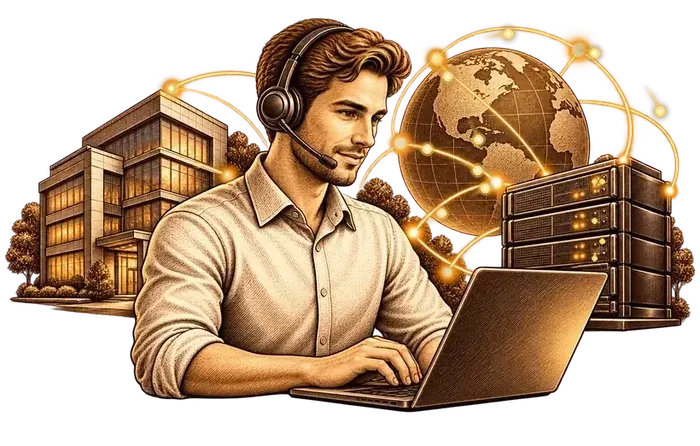
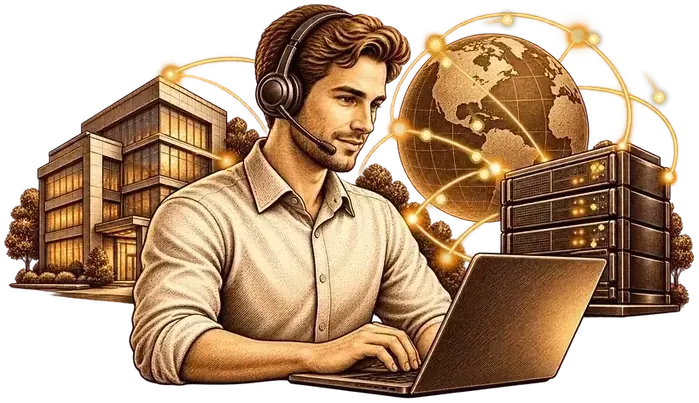
fix: apply hero image bbox-crop rule across /uslugi hero animations
Crop the 3 animated hero WebPs (serwis-laptopow, outsourcing-it,
serwis-drukarek-3d) to their real alpha bounding box to match the
already-tight statics, and cap the shared hero wrap at 80% zone height
so every service page's hero object sits at a consistent visual scale.
Frame count/delay/loop/alpha verified unchanged after crop.

diff --git a/src/components/service-page-template.tsx b/src/components/service-page-template.tsx
@@ -181,7 +181,7 @@ export function ServicePageTemplate({
               <div className="container max-w-4xl mx-auto px-4 md:px-6 relative z-10 pt-1 md:pt-2 mb-1">
                 <div className="grid grid-cols-1 md:grid-cols-2 gap-4 md:gap-10">
                   <div className="flex justify-center items-center">
-                    <div className="service-hero-image-wrap relative w-full md:w-full md:h-full">
+                    <div className="service-hero-image-wrap relative w-full md:w-full md:h-[80%]">
                       {slug === 'druk-3d-na-zamowienie' ? (
                         // Self-animated SVG (SMIL/CSS baked in) — plain <img>, not
                         // next/image, so the optimizer doesn't rasterize it and kill
@@ -199,15 +199,15 @@ export function ServicePageTemplate({
                         // Animated WebP (screen animation baked into the file) — plain
                         // <img>, not next/image, so the optimizer doesn't rasterize it
                         // and kill the animation. width/height match the source's real
-                        // 760x507 aspect ratio (not the generic 420x420 square used by
-                        // other service pages) so h-auto doesn't cause a layout jump
-                        // once the image loads.
+                        // 578x502 aspect ratio (cropped to alpha bbox; not the generic
+                        // 420x420 square used by other service pages) so h-auto doesn't
+                        // cause a layout jump once the image loads.
                         // eslint-disable-next-line @next/next/no-img-element
                         <img
                           src={imageSrc}
                           alt={imageAlt}
-                          width={760}
-                          height={507}
+                          width={578}
+                          height={502}
                           className="service-hero-image service-hero-image-laptop object-contain w-full h-auto md:w-full md:h-full mx-auto block"
                           fetchPriority="high"
                         />
@@ -238,8 +238,8 @@ export function ServicePageTemplate({
                           animatedSrc={imageSrc}
                           staticSrc="/images/03_outsourcing-it-static.webp"
                           alt={imageAlt}
-                          width={700}
-                          height={446}
+                          width={699}
+                          height={403}
                           className="service-hero-image object-contain w-full h-auto md:w-full md:h-full"
                         />
                       ) : slug === 'serwis-drukarek-3d' ? (
@@ -251,8 +251,8 @@ export function ServicePageTemplate({
                         <img
                           src={imageSrc}
                           alt={imageAlt}
-                          width={512}
-                          height={512}
+                          width={492}
+                          height={497}
                           className="service-hero-image object-contain w-full h-auto md:w-full md:h-full"
                           fetchPriority="high"
                         />

diff --git a/.claude/rules/design-guardrails.md b/.claude/rules/design-guardrails.md
@@ -25,3 +25,14 @@ If the user asks "how would this look" / "what do you suggest" / "show me option
 If a change would affect a shared component used by other pages, say which pages before changing it.
 
 After replacing a static asset under the same filename (icon, image), always hard-reload / bypass cache and confirm the browser is actually rendering the new file (byte size, `Last-Modified`, or a visible detail) before concluding it's stale and reprocessing the asset again.
+
+Service-page hero images/animations (the hero slot in `src/components/service-page-template.tsx`, files under `public/images/`):
+* Before inserting, reduce file weight as much as possible without visible quality loss.
+* Crop PNG/WebP to the real alpha bounding box — remove excess transparent padding — while preserving transparency and aspect ratio.
+* Animated WebP: preserve every frame, duration, loop count, and disposal/blend mode.
+* Downscale resolution to match the actual display size, not the original export size.
+* Size the object by its visible (trimmed) content, not the raw file canvas: scale up to fill up to 100% width × 80% height of the left hero zone (object-contain, aspect ratio preserved), stopping at whichever limit is hit first.
+* Never stretch or distort the object.
+* Never change the 50/50 hero container split.
+
+Goal: keep the visual scale of hero objects consistent across all service pages.
